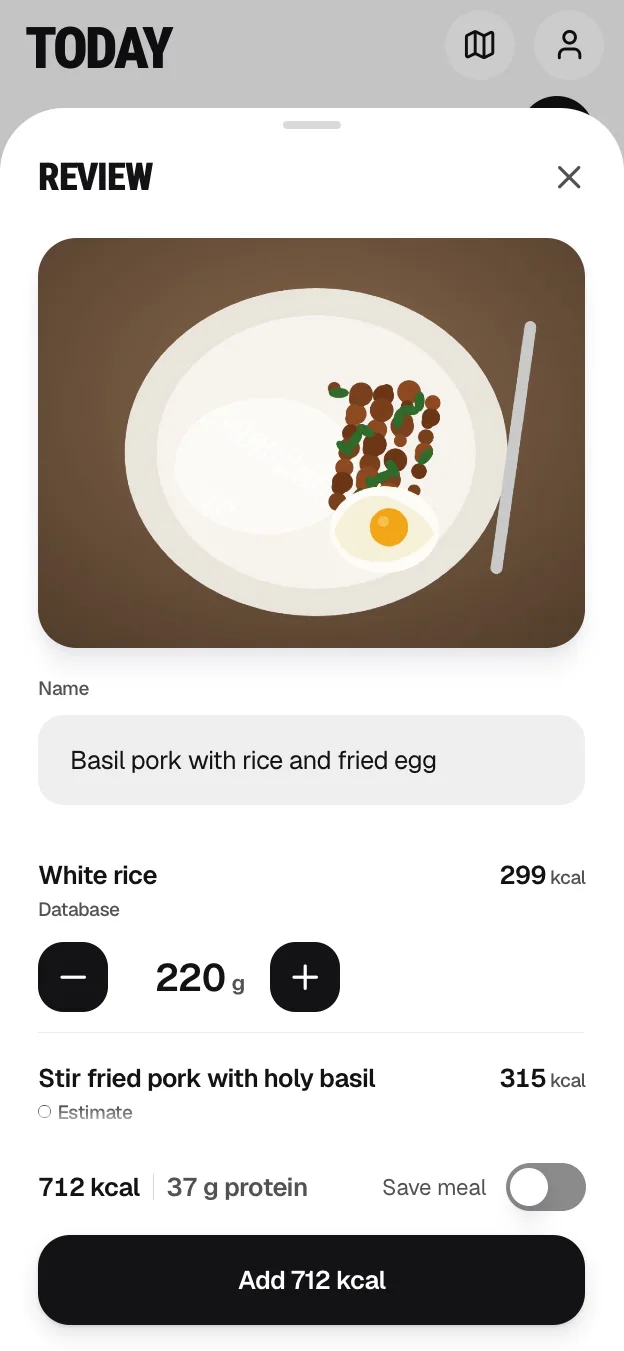
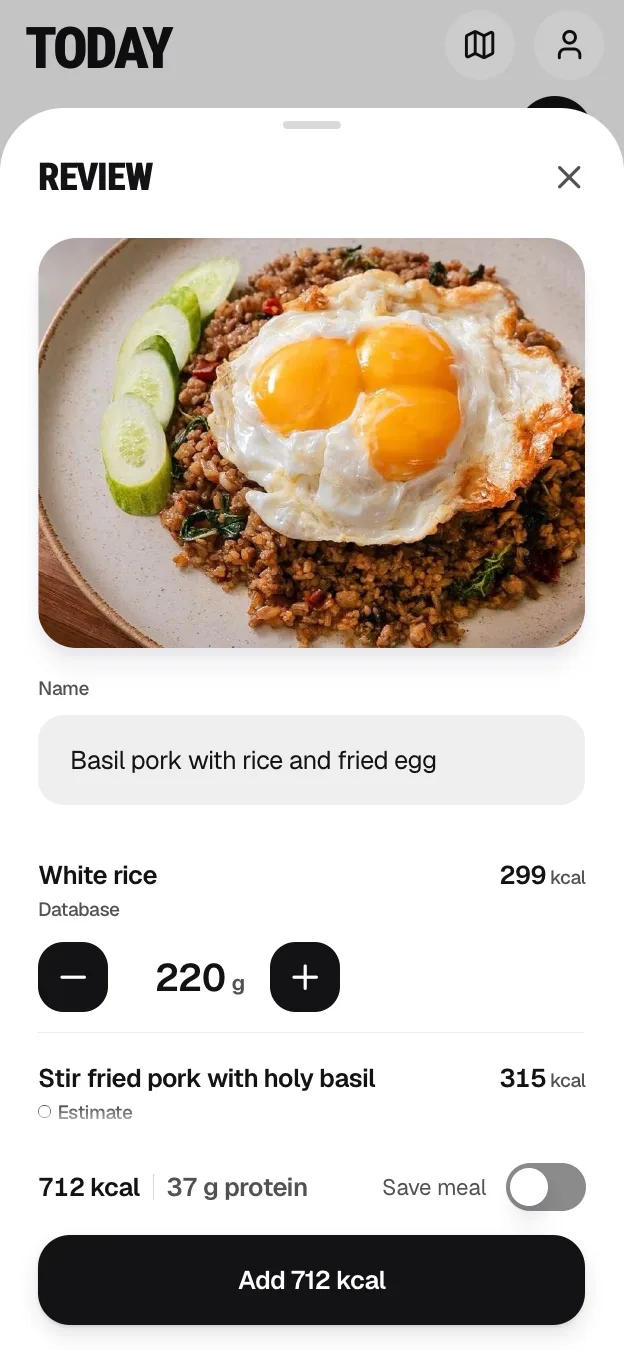
feat(landing): L2 liquid bars, masked glow, retaken phone shots with the pad kra pao; docs

Changed region(s): [[0.0609, 0.1554, 0.9439, 0.4974]]

diff --git a/src/flows/landing/Landing.svelte b/src/flows/landing/Landing.svelte
@@ -125,7 +125,7 @@
   <!-- the bar: OneFin's floating bar in Liquid Glass (L2), with the wordmark and the way back in -->
   <header class="bar fixed inset-x-0 top-0 z-30 px-4 pt-[calc(env(safe-area-inset-top)+8px)]">
     <!-- U1b: Sign in (sm, 36) sits 8 inside the 52 high bar on three sides, so its 16 corners nest in the bar's 24 -->
-    <nav class="liquid mx-auto flex h-13 max-w-[1200px] items-center justify-between rounded-md pr-2 pl-5" aria-label={t.app.name}>
+    <nav class="liquid-bar mx-auto flex h-13 max-w-[1200px] items-center justify-between rounded-md pr-2 pl-5" aria-label={t.app.name}>
       <Wordmark class="h-5 w-fit" />
       <Button variant="neutral" size="sm" onclick={signin} data-testid="landing-signin">{L.signin}</Button>
     </nav>
@@ -197,7 +197,7 @@
     <!-- 02 Training: a dark section with a violet glow (pick 06, 12); dark cards hold lavender panels and settle as they come -->
     <section class="px-2 sm:px-4" data-testid="landing-train">
       <div data-theme="dark" class="bg-canvas text-ink relative isolate overflow-clip rounded-xl px-4 pt-20 pb-24">
-        <div class="grained absolute inset-x-0 bottom-0 -z-10 h-3/4 translate-y-1/2 [background:var(--glow)]" aria-hidden="true"></div>
+        <div class="glow absolute inset-x-0 bottom-0 -z-10 h-3/4 translate-y-1/2" aria-hidden="true"></div>
         {@render head('02', L.train.tag, L.train.title, L.train.lead)}
         <div class="mx-auto mt-12 grid max-w-[1000px] gap-4 md:grid-cols-2 md:gap-6">
           {#each TRAIN as c, i (i)}
@@ -312,7 +312,7 @@
         <div class="relative mt-4">
           <!-- the glow rises from where the panels begin (the owner's footer-glow-bug): its brightest middle on their top
                edge, spreading behind them and up into the wordmark, the canvas at every edge so it shows no seam -->
-          <div class="grained absolute -inset-x-4 top-0 -z-10 h-[clamp(18rem,40vw,36rem)] -translate-y-1/2 [background:var(--glow)]" data-testid="landing-glow" aria-hidden="true"></div>
+          <div class="glow absolute -inset-x-4 top-0 -z-10 h-[clamp(18rem,40vw,36rem)] -translate-y-1/2" data-testid="landing-glow" aria-hidden="true"></div>
         <div class="liquid rise-in mx-auto max-w-[1200px] rounded-t-sheet p-2 pb-0" use:inview={0.05} data-reveal data-testid="landing-panels">
           <div class="grid gap-2 md:grid-cols-2">
             <div class="liquid-violet text-on-night rounded-lg p-6">
@@ -338,13 +338,20 @@
 
   <!-- Build your plan, floating once the hero's action has gone by: the ink pill on the dock's glass -->
   <div class="float-cta fixed inset-x-0 bottom-0 z-30 px-4 pb-[max(12px,env(safe-area-inset-bottom))]" data-shown={floating || undefined} inert={!floating} data-testid="landing-float">
-    <div class="liquid mx-auto max-w-sm rounded-md p-1">
+    <div class="liquid-bar mx-auto max-w-sm rounded-md p-1">
       <Button variant="primary" size="lg" full onclick={start}>{L.start}</Button>
     </div>
   </div>
 </div>
 
 <style>
+  /* the dark sections' glow: brightest at its middle, faded to nothing at every edge by an elliptical mask, so neither
+     the grain nor the colour ever starts at a line (the owner's footer-glow-bug) */
+  .glow {
+    background: var(--glow);
+    background-blend-mode: soft-light, normal;
+    mask-image: radial-gradient(closest-side, black 40%, transparent);
+  }
   /* the lead sits on the sky's violet top: full ink, not ink-2, keeps it at 4.5 to 1 */
   .hero-lead { color: var(--ink); }
 

diff --git a/src/app.css b/src/app.css
@@ -202,6 +202,13 @@
   background: var(--liquid-violet);
   @supports not ((backdrop-filter: blur(1px)) or (-webkit-backdrop-filter: blur(1px))) { background: var(--liquid-violet-solid); }
 }
+/* the material on a bar that content scrolls under (the landing's bar and its floating action): the dock's fill, so words
+   on it hold 4.5 to 1 over anything, with the liquid rim */
+@utility liquid-bar {
+  @apply liquid;
+  background: var(--bar-bg);
+  @supports not ((backdrop-filter: blur(1px)) or (-webkit-backdrop-filter: blur(1px))) { background: var(--bar-solid); }
+}
 /* white in both themes: night words on it, over the phones' light screens and the lavender field */
 @utility liquid-white {
   @apply liquid;

diff --git a/docs/DESIGN.md b/docs/DESIGN.md
@@ -132,7 +132,7 @@ Two faces, self hosted from their OFL packages and precached: Roboto Condensed 9
 - **The status bar continues the top of the screen (U1b).** `topColour()` sets `theme-color` and the root's background (Safari 26 samples it): the landing hero's sky (`--sky-top`) on the landing page, the canvas everywhere else, onboarding included.
 - **Depth.** In light mode cards carry `--shadow-card`, OneFin's soft stats card shadow, and never a border with it. In dark mode cards have no shadow and a 1 px `--line` ring. Things that float (the dock, toasts, a dragged row) have `--shadow-float`. The ink pill and the dock's plus carry `--shadow-action`, a soft drop below them. No button has an inner light, a bevel, a rim, a gradient or a glow (`tests/e2e/app.spec.ts` sweeps every button for them).
 - **Content cards stay solid,** white or the dark surface, so their numbers stay readable. Nothing that carries a number you need to read is glass.
-- **Gradients.** At most one per screen, on its hero. `--grad-hero` is the aurora haze of OneFin's Premium and stats cards (lavender, blue, pink and cyan over white; violet, blue and magenta in dark), filling the hero's haze panel through the `haze` utility. The landing page's gradients are in section 13. No stop of the haze is stronger than lavender at 75 percent, so ink, `--ink-2` and `--success-ink` words pass on it. Nothing else has a gradient.
+- **Gradients.** At most one per screen, on its hero. `--grad-hero` is the aurora haze of OneFin's Premium and stats cards (lavender, blue, pink and cyan over white; violet, blue and magenta in dark), filling the hero's haze panel through the `haze` utility. The landing page's gradients are in section 13. No stop of the haze is stronger than lavender at 75 percent, so ink, `--ink-2` and `--success-ink` words pass on it. Nothing else has a gradient. Since L2 the haze and `--grad-feature` (light and dark) are photo gradients, made on photogradient.com (`scripts/gradients.sh` has each one's colours and settings), under one shared grain tile laid on with soft-light by the `haze`, `feature` and `grained` utilities; the CSS gradient stays beneath as the fallback, and `landing.spec.ts` measures the words on the images themselves.
 - **Glass.** As OneFin's "Paid" pill and "Direct pay" chip: backdrop blur, a translucent fill, a 1 px translucent white edge and a soft drop (`glass`; `glass-bar` for the dock, with more fill since rows scroll under it). Without blur (`@supports not`) the solid `--glass-solid` or `--bar-solid` stands in. Allowed only on: small chips and pills over a coloured or gradient surface or a picture (the hero's day chip, the landing page's bar and tiles), sheet backdrops (the blurred scrim), and the dock. The header is opaque.
 - **Width.** Content sits in a column of at most 480 px, centred on `--surround` on wider screens.
 - **One card, one job.** Nest only as OneFin nests: the hero card is a white shell holding its haze panel and grey stat tiles, radii stepping down. Otherwise divide a card with a hairline.
@@ -296,11 +296,13 @@ The landing page is the one marketing screen: a visitor reads it top to bottom, 
 | Colour-washed cards (10) | 05 Sources | Where OneFin puts testimonials, Ontrack puts its sources: honest proof in the same look, read from `constants.ts` so it cannot drift |
 | Violet icon tiles beside short points (05) | 04 Friends | The food map raises who sees it and where; three points answer that beside the real map |
 | The nested-panel footer with a giant wordmark (09) | The footer | Ends the page on the name, with the two actions and the wellness line in reach |
-| OneFin's sky and glass bar, tilted white chips flying in (hero, nav, 15) | The hero and the fixed bar | The first screen reads as OneFin at once; the glass bar sits over colour, where glass belongs. The chips are white with night words in both themes, since they sit on the phone's light screen |
-| Phones with real screens (05, 12) | Every feature | Proof by showing: each is a screenshot of the app at the current look, never a mock-up. A night bezel at radius 48, no island (the screens have no status bar) and no shadow |
+| OneFin's sky and glass bar, tilted glass chips flying in (hero, nav, 15; glass-03) | The hero and the fixed bar | The first screen reads as OneFin at once; the glass bar sits over colour, where glass belongs. The chips are white Liquid Glass with night words in both themes, since they sit on the phone's light screen |
+| Phones with real screens (05, 12) | Every feature | Proof by showing: each is a screenshot of the app at the current look, never a mock-up. L2: an iPhone 16 drawn in CSS from its published sizes (393 by 852, a 54 point status bar, the island 126 by 37, 55 point screen corners), with the status bar at 9:41 and the Dynamic Island above the screen, so the app never touches the top; no shadow. The meal in every phone is the owner's pad kra pao with fried eggs (`tests/fixtures/krapao.jpg`) |
 
 Rules that bend here, and only here:
-- **Gradients.** Besides the haze: `--grad-sky` (the hero), `--glow` (the foot of dark sections and the footer), `--grad-panel` (the footer's panels) and the four `--wash-*` (the source cards). Still never on a button, a row, a chip or text.
+- **Gradients (L2: photo gradients with grain).** Every gradient is an image made on photogradient.com from the brand's colours (`design/gradients/`, `scripts/gradients.sh`), the shared grain over it with soft-light, its CSS gradient beneath as the fallback: `--grad-sky` (the hero, light and dark), `--glow` (the dark sections), `--grad-lavender` (the check-in's field), the four `--wash-*` (the source cards), and `feature` on the one featured card and the closing call's panel. Still never on a button, a row, a chip or text. The words on each image are measured in `landing.spec.ts`.
+- **The glow (L2, the owner's footer-glow-bug).** Brightest at its middle and faded to nothing at every edge (the `.glow` mask), so neither colour nor grain starts at a line. In the footer its middle sits on the panels' top edge (`landing.spec.ts` checks it): it rises behind the wordmark and runs on behind the glass panels, as glass-01. In 02 Training it rises from the section's foot.
+- **Liquid Glass (L2, iOS 26's "regular" material).** Blur and saturate what is behind, tint it, and catch the light with a rim, bright top left and faint bottom right: `liquid` (follows the theme), `liquid-bar` (the bar and the floating action's tray, with the dock's fill, since content scrolls under them), `liquid-white` (night words in both themes: the hero's chips and the check-in's cards) and `liquid-violet` (white words: the footer's panels). On the bar, the hero's chips, the check-in's cards, the source cards' icon chips, the closing call's mark tile and the footer's shell and panels; the cards that carry a screen or a number stay solid (Logging, Training, Friends' tiles, the washes), as glass-01 to 05 mix the two. Never on a button: the rim is an inner light, so the back to top tile keeps `glass`. No refraction, since Safari draws no SVG displacement inside `backdrop-filter`; without blur each has a solid fill.
 - **Centred text.** Headlines, leads and the statement are centred on a phone, as OneFin's are; the hero is left aligned on a wide screen.
 - **More than one primary.** "Build your plan" appears in the hero, floating, in the closing call and in the footer, but never two pills on screen at once: the floating one shows only between the hero's and the closing call's. Ink on light, white on dark and on violet.
 - **Two violet cards.** Snap the plate and the closing call's panel are never on screen together.

diff --git a/docs/DECISIONS.md b/docs/DECISIONS.md
@@ -2,6 +2,22 @@
 
 Changes to a doc's decision, and choices made on the owner's behalf. Newest first, one line each: what, why.
 
+## L2
+
+Landing glass and photo gradients, 13 November 2026, unattended. The owner's desktop pass: more of OneFin's glass, gradients made from photos with a little grain, an iPhone 16 frame, the owner's pad kra pao, and the footer glow bug.
+- **The gradients were made on photogradient.com, driven through Yab's CLI.** Claude in Chrome was not connected; a Yab agent tab set the seven colours, the size and the noise, and clicked Download (13 exports). Settings for all: Sharp Bezier, the site's default Smooth Noise warp (the owner's screenshot used Voronoi), warp 0.4, warp size 1, noise 0; each one's colours, in the site's order, are in the header of `scripts/gradients.sh`, which turns the exports into WebP. Why: the owner asked for that tool by name; a generator was the fallback and was not needed.
+- **Grain is one shared tile, not baked into each image.** A 256 px tile of the site's own noise (seven mid greys at noise 0.15, 11 KB), laid over each gradient with soft-light at 128 CSS px. Why: noise baked in costs tens of kilobytes per image and blurs when an image is scaled; the tile stays crisp at any size, and the smooth gradients compress to 2 to 9 KB each.
+- **All gradients moved, the app's too** (the owner's scope addition): the hero haze and the featured card in light and dark, the landing sky in light and dark, the glow, the check-in's field and the four source washes. Wired through the same tokens with the CSS gradient beneath as the fallback, so no app component changed. Words on them are measured on the images in `landing.spec.ts` (8 px blocks, 4.5 to 1; 3 to 1 for the hero's large violet words); the CSS stops stay in `contrast.test.ts`.
+- **The app's gradients are precached, the landing page's are not**, and none is inlined as a data URL (`vite.config.ts`). Why: the app's show offline on Today; the landing page is only for a first visit online, like its phone shots.
+- **The sweep lets the featured card's fill start with an image** (`url(`) as well as a CSS gradient. Why: its photo gradient is still the one allowed fill; every other button is checked as before.
+- **The Figma files were not reachable.** The MCP needs a file key and the two community files ("iPhone 16 and 16 Plus Mockups", "iOS 26 Liquid Glass") have none without the owner's links. The phone uses the iPhone 16's published sizes; the glass follows Apple's description of Liquid Glass and callstack/liquid-glass's parameters (regular and clear, tint, interactive), built in CSS. Only the regular style is used: clear glass needs a dimming layer for words.
+- **No refraction.** Safari draws no SVG displacement inside `backdrop-filter`, so the glass is blur, saturation, tint and a rim, which looks the same in Safari and Chrome.
+- **The glow is masked to nothing at every edge** and its middle sits on the footer panels' top edge. Why: the owner's footer-glow-bug; an image whose edge colour merely matches the page still shows where the grain starts.
+- **The bar and the floating action's tray keep the dock's fill under the liquid rim** (`liquid-bar`). Why: the critic found the clear dark glass let the closing call's white pill wash out the wordmark.
+- **The status bar repeats the top of each screen**, stretched and blurred, rather than a fixed colour. Why: the sheets' dimmed tops and the map need their own colour, and it stays right when the shots are retaken.
+- **The pad kra pao is in the photo shot and on every food map pin** in the landing shots (`tests/fixtures/krapao.jpg`, from the owner's AVIF), without the hue turn the map tests use. Why: the owner asked for that dish in every mockup, and a hue-turned egg looks wrong.
+- **Not done:** the side buttons of the iPhone frame (the crop would cut them), the interactive press highlight on glass (the only glass button, back to top, keeps `glass` and its press scale), refraction.
+
 ## U1c
 
 Motion and feel, app wide, 13 November 2026. Unattended; the owner judged the UX about 30 percent for lack of "good feelings". The rules are DESIGN.md section 10; the choices behind them:
